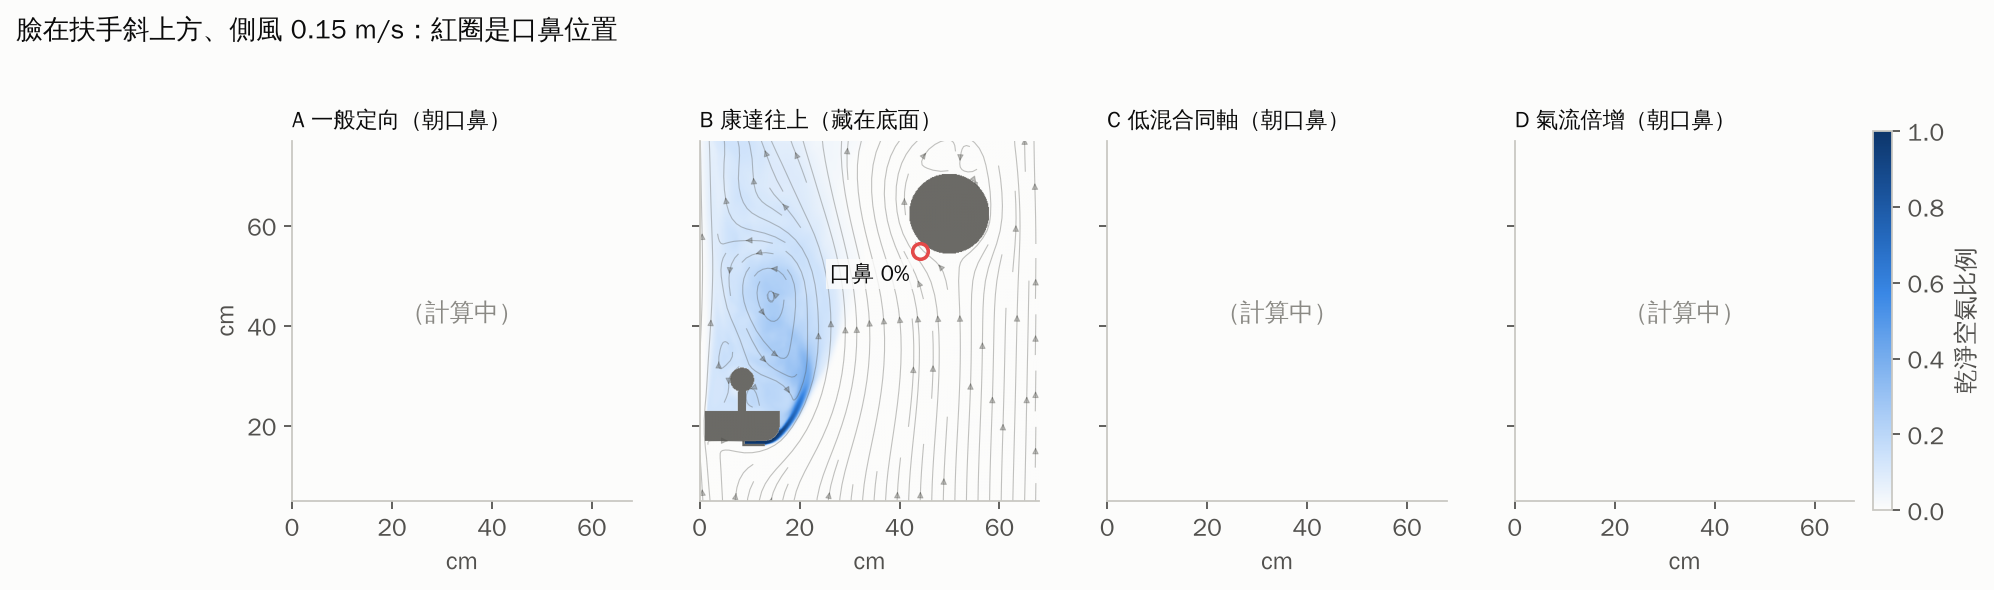
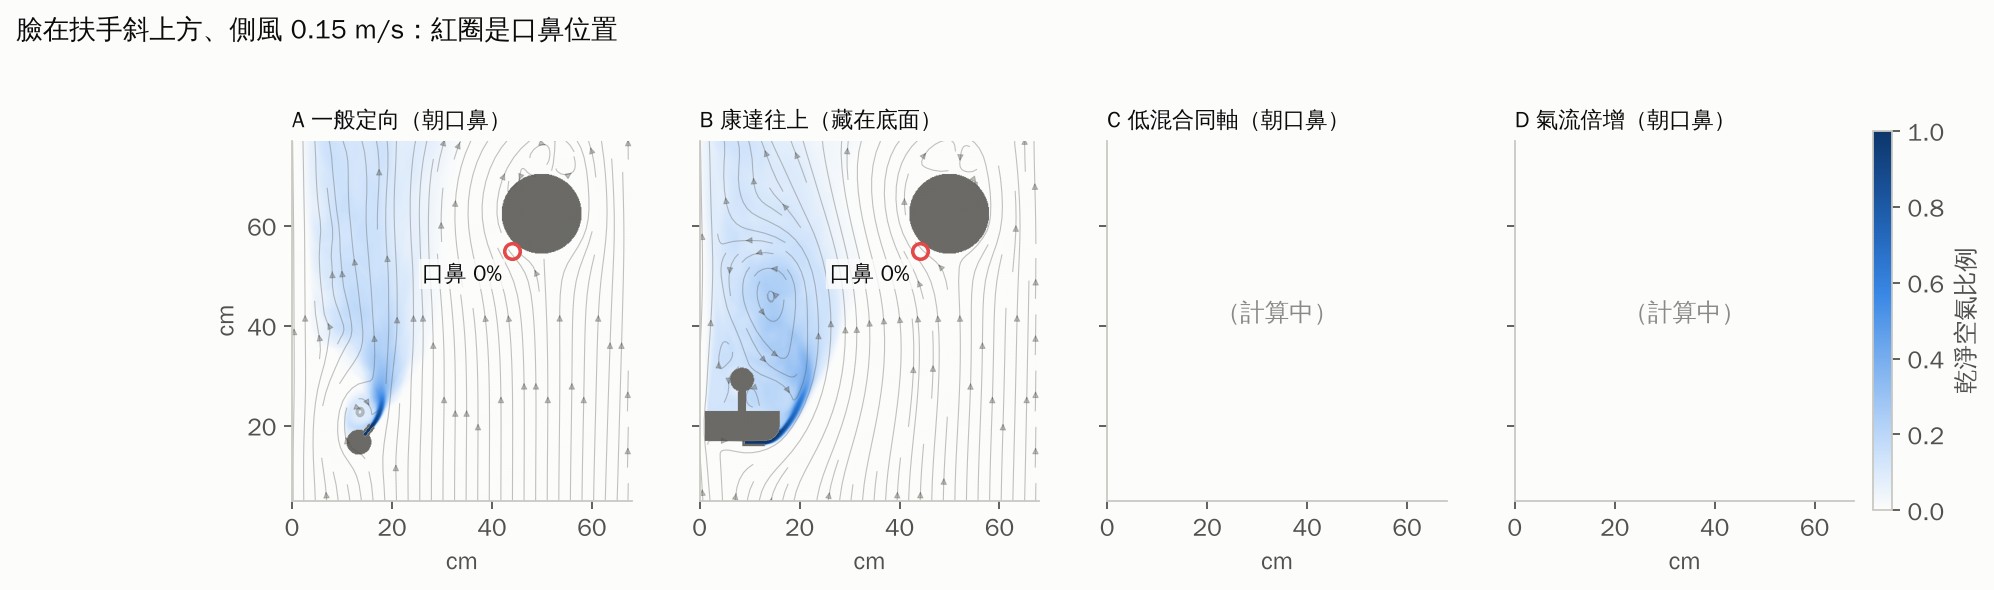
Face-above: 6/18 results (A crossflow 0.15)
Claude-Session: https://claude.ai/code/session_01CLMVR9XzZXdsSKCMSLUbBG

Changed region(s): [[0.1555, 0.2136, 0.3109, 0.8542]]

diff --git a/stairwell-airflow-sim/report/index.html b/stairwell-airflow-sim/report/index.html
@@ -173,7 +173,7 @@ footer { margin-top: 48px; padding-top: 20px; border-top: 1px solid var(--line);
   <h1>扶手送風模擬報告</h1>
   <p class="question">一根貫穿整棟樓的扶手，平時能不能流通、淨化空氣？火災時能幫逃生者做到什麼？用電腦模擬一項一項檢查。</p>
   <div class="meta"><span>日期 <b>2026-10-19</b></span><span>專案 <b>長庚大學工業設計學系 林煜宸</b></span><span>模擬與撰寫 <b>Claude（AI）</b></span></div>
-  <div class="progress" role="status"><p>臉在斜上方的出風口重算：已完成 5/18 組，整體約 53%，預計台灣時間 <b>23:15</b> 前後完成</p><div class="bar" aria-hidden="true"><span style="width:53.3%"></span></div><div class="chips"><span class="chip chip-done"><b>B 康達往上</b>・無側風　完成</span><span class="chip chip-done"><b>B 康達往上</b>・側風 0.15　完成</span><span class="chip chip-done"><b>B 康達往上</b>・側風 0.30　完成</span><span class="chip chip-done"><b>A 一般</b>・側風 0.30　完成</span><span class="chip chip-run"><b>C 低混合</b>・側風 0.30　80%</span><span class="chip chip-run"><b>D 倍增</b>・側風 0.30　80%</span><span class="chip chip-done"><b>A 一般</b>・無側風　完成</span><span class="chip chip-run"><b>A 一般</b>・側風 0.15　83%</span><span class="chip chip-run"><b>D 倍增</b>・無側風　0%</span><span class="chip chip-wait"><b>D 倍增</b>・側風 0.15　排隊中</span><span class="chip chip-wait"><b>C 低混合</b>・側風 0.15　排隊中</span><span class="chip chip-wait"><b>C 低混合</b>・無側風　排隊中</span><span class="chip chip-wait"><b>W 空氣牆 40</b>・側風 0.15　排隊中</span><span class="chip chip-wait"><b>W 空氣牆 20</b>・側風 0.15　排隊中</span><span class="chip chip-wait"><b>W 空氣牆 40</b>・側風 0.30　排隊中</span><span class="chip chip-wait"><b>W 空氣牆 20</b>・側風 0.30　排隊中</span><span class="chip chip-wait"><b>W 空氣牆 40</b>・無側風　排隊中</span><span class="chip chip-wait"><b>W 空氣牆 20</b>・無側風　排隊中</span></div><p class="muted small">進度在每次更新報告時重新計算（最後更新：台灣時間 10/19 22:35）。</p></div>
+  <div class="progress" role="status"><p>臉在斜上方的出風口重算：已完成 6/18 組，整體約 57%，預計台灣時間 <b>23:16</b> 前後完成</p><div class="bar" aria-hidden="true"><span style="width:56.8%"></span></div><div class="chips"><span class="chip chip-done"><b>B 康達往上</b>・無側風　完成</span><span class="chip chip-done"><b>B 康達往上</b>・側風 0.15　完成</span><span class="chip chip-done"><b>B 康達往上</b>・側風 0.30　完成</span><span class="chip chip-done"><b>A 一般</b>・側風 0.30　完成</span><span class="chip chip-run"><b>C 低混合</b>・側風 0.30　92%</span><span class="chip chip-run"><b>D 倍增</b>・側風 0.30　92%</span><span class="chip chip-done"><b>A 一般</b>・無側風　完成</span><span class="chip chip-done"><b>A 一般</b>・側風 0.15　完成</span><span class="chip chip-run"><b>D 倍增</b>・無側風　21%</span><span class="chip chip-run"><b>D 倍增</b>・側風 0.15　0%</span><span class="chip chip-wait"><b>C 低混合</b>・側風 0.15　排隊中</span><span class="chip chip-wait"><b>C 低混合</b>・無側風　排隊中</span><span class="chip chip-wait"><b>W 空氣牆 40</b>・側風 0.15　排隊中</span><span class="chip chip-wait"><b>W 空氣牆 20</b>・側風 0.15　排隊中</span><span class="chip chip-wait"><b>W 空氣牆 40</b>・側風 0.30　排隊中</span><span class="chip chip-wait"><b>W 空氣牆 20</b>・側風 0.30　排隊中</span><span class="chip chip-wait"><b>W 空氣牆 40</b>・無側風　排隊中</span><span class="chip chip-wait"><b>W 空氣牆 20</b>・無側風　排隊中</span></div><p class="muted small">進度在每次更新報告時重新計算（最後更新：台灣時間 10/19 22:38）。</p></div>
 </header>
 <nav class="toc" aria-label="章節">
   <a href="#summary">一頁看懂</a><a href="#method">怎麼測的</a><a href="#daily">平時：新風帶</a><a href="#fire">火災：守護路線</a>
@@ -445,15 +445,15 @@ footer { margin-top: 48px; padding-top: 20px; border-top: 1px solid var(--line);
 
 <section id="nozzle">
   <h2><span class="no">04</span>四種出風口比一比（臉在扶手斜上方）</h2>
-  <p class="oneliner">臉在扶手斜上方時（已完成 5/18 組），目前口鼻乾淨空氣最高的是 A 一般定向（無側風）：18%。</p>
+  <p class="oneliner">臉在扶手斜上方時（已完成 6/18 組），目前口鼻乾淨空氣最高的是 A 一般定向（無側風）：18%。</p>
   <figure class="fig render"><img class="img-any" src="assets/render_nozzles.webp" alt="四種扶手側面出風口形式比較" loading="lazy"><figcaption>四種出風口的造型構想（設計渲染圖）。圖中文字是設計構想，實際結果以下方模擬為準。</figcaption></figure>
   <figure class="fig"><img class="img-light" src="assets/s2f_saf_bars.png" alt="臉在斜上方時四種出風口的乾淨空氣比例" loading="lazy"><img class="img-dark" src="assets/s2f_saf_bars_dark.png" alt="臉在斜上方時四種出風口的乾淨空氣比例" loading="lazy"><figcaption>每條橫條代表 100% 的吸入空氣，彩色部分是來自出風口的乾淨空氣。黑色短線是最差 10% 的時刻。</figcaption></figure>
   <div class="points prose">
 <p><b>為什麼重算：</b>人扶著內側扶手下樓時，臉在扶手的<b>斜上方</b>，不是正前方。這組把口鼻放在出風口往樓梯側 28 cm、往上 35 cm（距離約 45 cm、仰角約 51°）；A、C、D 出風口改成朝向口鼻，B 改用藏在底面、往上轉的康達出風口。每公尺送風量都是 5 L/s，網格 1.5 mm。<span class="tag tag-sim">模擬結果</span></p>
-<div class="table-wrap"><table><thead><tr><th scope="col">出風口</th><th scope="col">無側風</th><th scope="col">側風 0.15</th><th scope="col">側風 0.30</th></tr></thead><tbody><tr><th scope="row">A 一般定向</th><td class="num">18%</td><td class="num">計算中</td><td class="num">0%</td></tr><tr><th scope="row">B 康達往上</th><td class="num">5%</td><td class="num">0%</td><td class="num">0%</td></tr><tr><th scope="row">C 低混合同軸</th><td class="num">計算中</td><td class="num">計算中</td><td class="num">計算中</td></tr><tr><th scope="row">D 氣流倍增</th><td class="num">計算中</td><td class="num">計算中</td><td class="num">計算中</td></tr><tr><th scope="row">W 空氣牆 20 L/s/m</th><td class="num">計算中</td><td class="num">計算中</td><td class="num">計算中</td></tr><tr><th scope="row">W 空氣牆 40 L/s/m</th><td class="num">計算中</td><td class="num">計算中</td><td class="num">計算中</td></tr></tbody></table></div>
-<p><b>目前看到的現象（3 組有側風的結果）：</b>有側風時，出風口吹出的乾淨空氣一離開扶手，就被由下往上的氣流帶著<b>貼著扶手正上方往上走</b>，到不了往樓梯側 28 cm 外的臉，口鼻都是 0%。B 康達往上確實有沿圓角轉向上（下面的圖看得到深藍色貼著導風腔轉彎），但轉上去之後一樣直直往上，沒有往臉的方向偏。<span class="tag tag-sim">模擬結果</span></p>
+<div class="table-wrap"><table><thead><tr><th scope="col">出風口</th><th scope="col">無側風</th><th scope="col">側風 0.15</th><th scope="col">側風 0.30</th></tr></thead><tbody><tr><th scope="row">A 一般定向</th><td class="num">18%</td><td class="num">0%</td><td class="num">0%</td></tr><tr><th scope="row">B 康達往上</th><td class="num">5%</td><td class="num">0%</td><td class="num">0%</td></tr><tr><th scope="row">C 低混合同軸</th><td class="num">計算中</td><td class="num">計算中</td><td class="num">計算中</td></tr><tr><th scope="row">D 氣流倍增</th><td class="num">計算中</td><td class="num">計算中</td><td class="num">計算中</td></tr><tr><th scope="row">W 空氣牆 20 L/s/m</th><td class="num">計算中</td><td class="num">計算中</td><td class="num">計算中</td></tr><tr><th scope="row">W 空氣牆 40 L/s/m</th><td class="num">計算中</td><td class="num">計算中</td><td class="num">計算中</td></tr></tbody></table></div>
+<p><b>目前看到的現象（4 組有側風的結果）：</b>有側風時，出風口吹出的乾淨空氣一離開扶手，就被由下往上的氣流帶著<b>貼著扶手正上方往上走</b>，到不了往樓梯側 28 cm 外的臉，口鼻都是 0%。B 康達往上確實有沿圓角轉向上（下面的圖看得到深藍色貼著導風腔轉彎），但轉上去之後一樣直直往上，沒有往臉的方向偏。<span class="tag tag-sim">模擬結果</span></p>
 <p><b>加算空氣牆：</b>先算完的幾組顯示，每公尺 5 L/s 的出風口在有側風時送不到斜上方的臉。所以把第 05 章表現最好的空氣牆（寬 80 mm、每公尺 20 或 40 L/s、水平往樓梯側吹）也放進同一個「臉在斜上方＋有頭」的測試，共 6 組，表格最後兩列。<span class="tag tag-sim">模擬結果</span></p>
-<p class="muted">已完成 5/18 組，其餘計算中；每完成一批就會更新。</p></div>
+<p class="muted">已完成 6/18 組，其餘計算中；每完成一批就會更新。</p></div>
   <figure class="fig"><img class="img-light" src="assets/s2f_vc00_fields.png" alt="臉在斜上方、無側風" loading="lazy"><img class="img-dark" src="assets/s2f_vc00_fields_dark.png" alt="臉在斜上方、無側風" loading="lazy"><figcaption>無側風：紅圈是口鼻位置，顏色越深代表出風口的空氣越多。</figcaption></figure>
   <figure class="fig"><img class="img-light" src="assets/s2f_vc15_fields.png" alt="臉在斜上方、側風 0.15 m/s" loading="lazy"><img class="img-dark" src="assets/s2f_vc15_fields_dark.png" alt="臉在斜上方、側風 0.15 m/s" loading="lazy"><figcaption>側風 0.15 m/s（由下往上）。</figcaption></figure>
   <figure class="fig"><div class="pending-box">動畫計算中</div><figcaption>動畫（臉在斜上方、側風 0.15 m/s）。每格 0.08 秒。</figcaption></figure>
